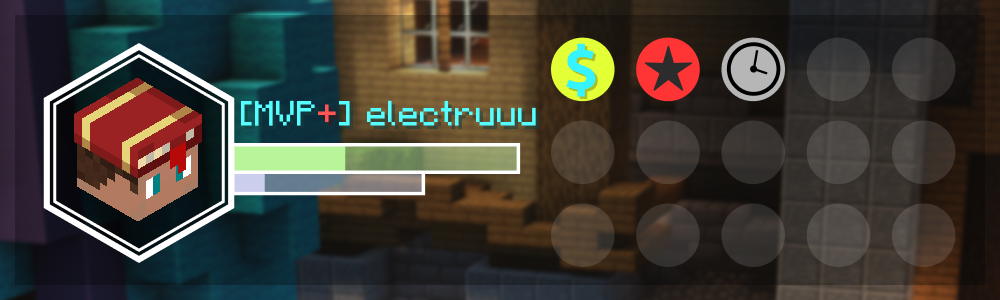
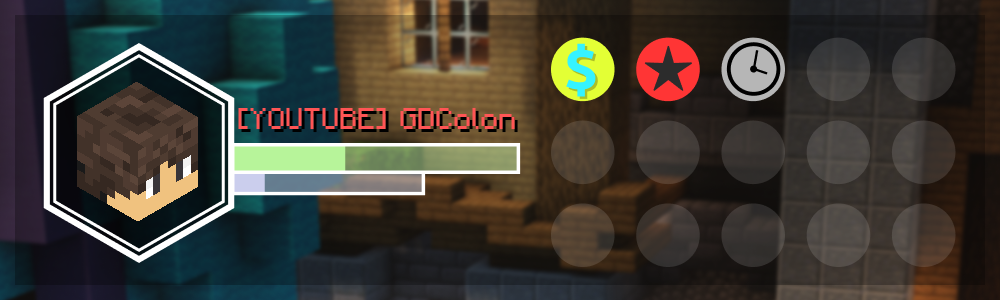
Generating username via Hypixel API

Changed region(s): [[0.062, 0.27, 0.558, 0.75]]

diff --git a/README.md b/README.md
@@ -1,7 +1,7 @@
 
 <div align="center">
     <br>
-    <h2><b>WARNING:</b> This project is far from complete, you can always contribute!</h2>
+    <h3><b>WARNING:</b> This project is far from complete, you can always contribute!</h3>
     <br>
     <img src="https://tobiasbot.ovh/images/logo.svg">
     <br>
@@ -36,7 +36,7 @@ An open-source version of the [tobiasBot](https://github.com/CheryX/tobiasBot) w
 
 ## Text schema
 
-There is a custom text schema for the bot, its is made of multiple JSON object. The JSON object accepts the following values:
+There is a custom text schema for the bot, its is made of multiple JSON objects. These objects accepts the following values:
 
 name | description | example | type | required
 --- | --- | --- | --- | ---
